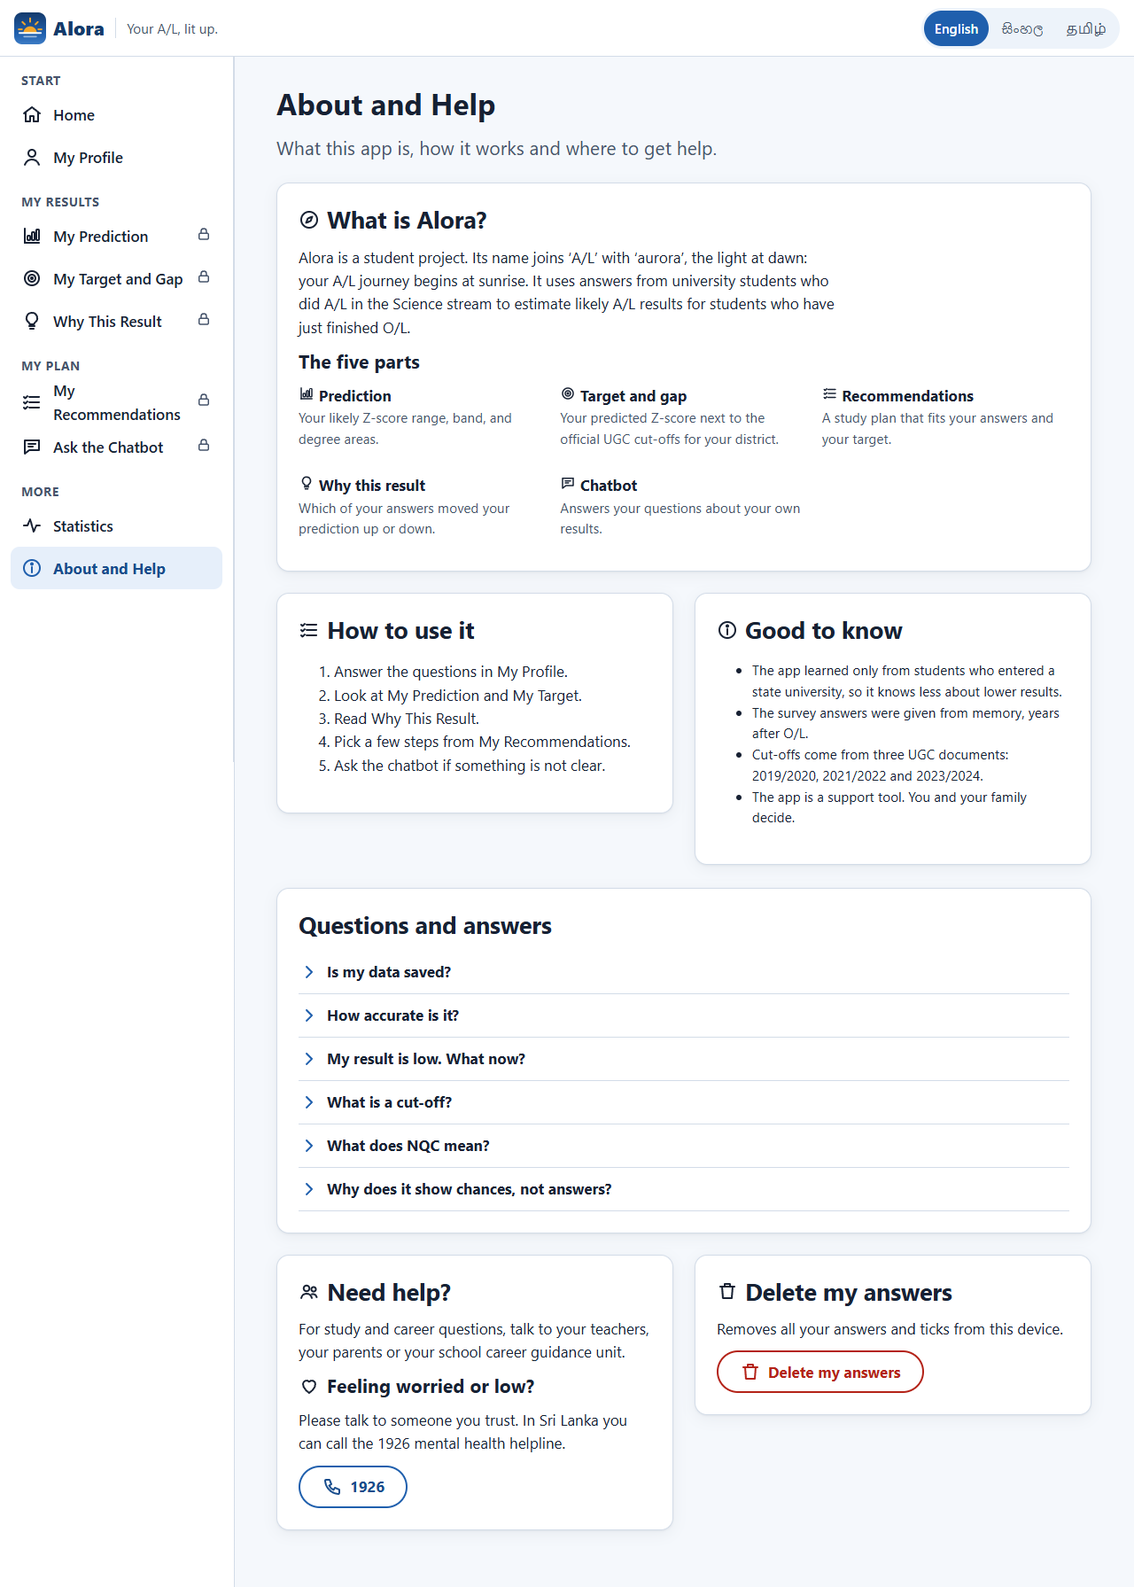
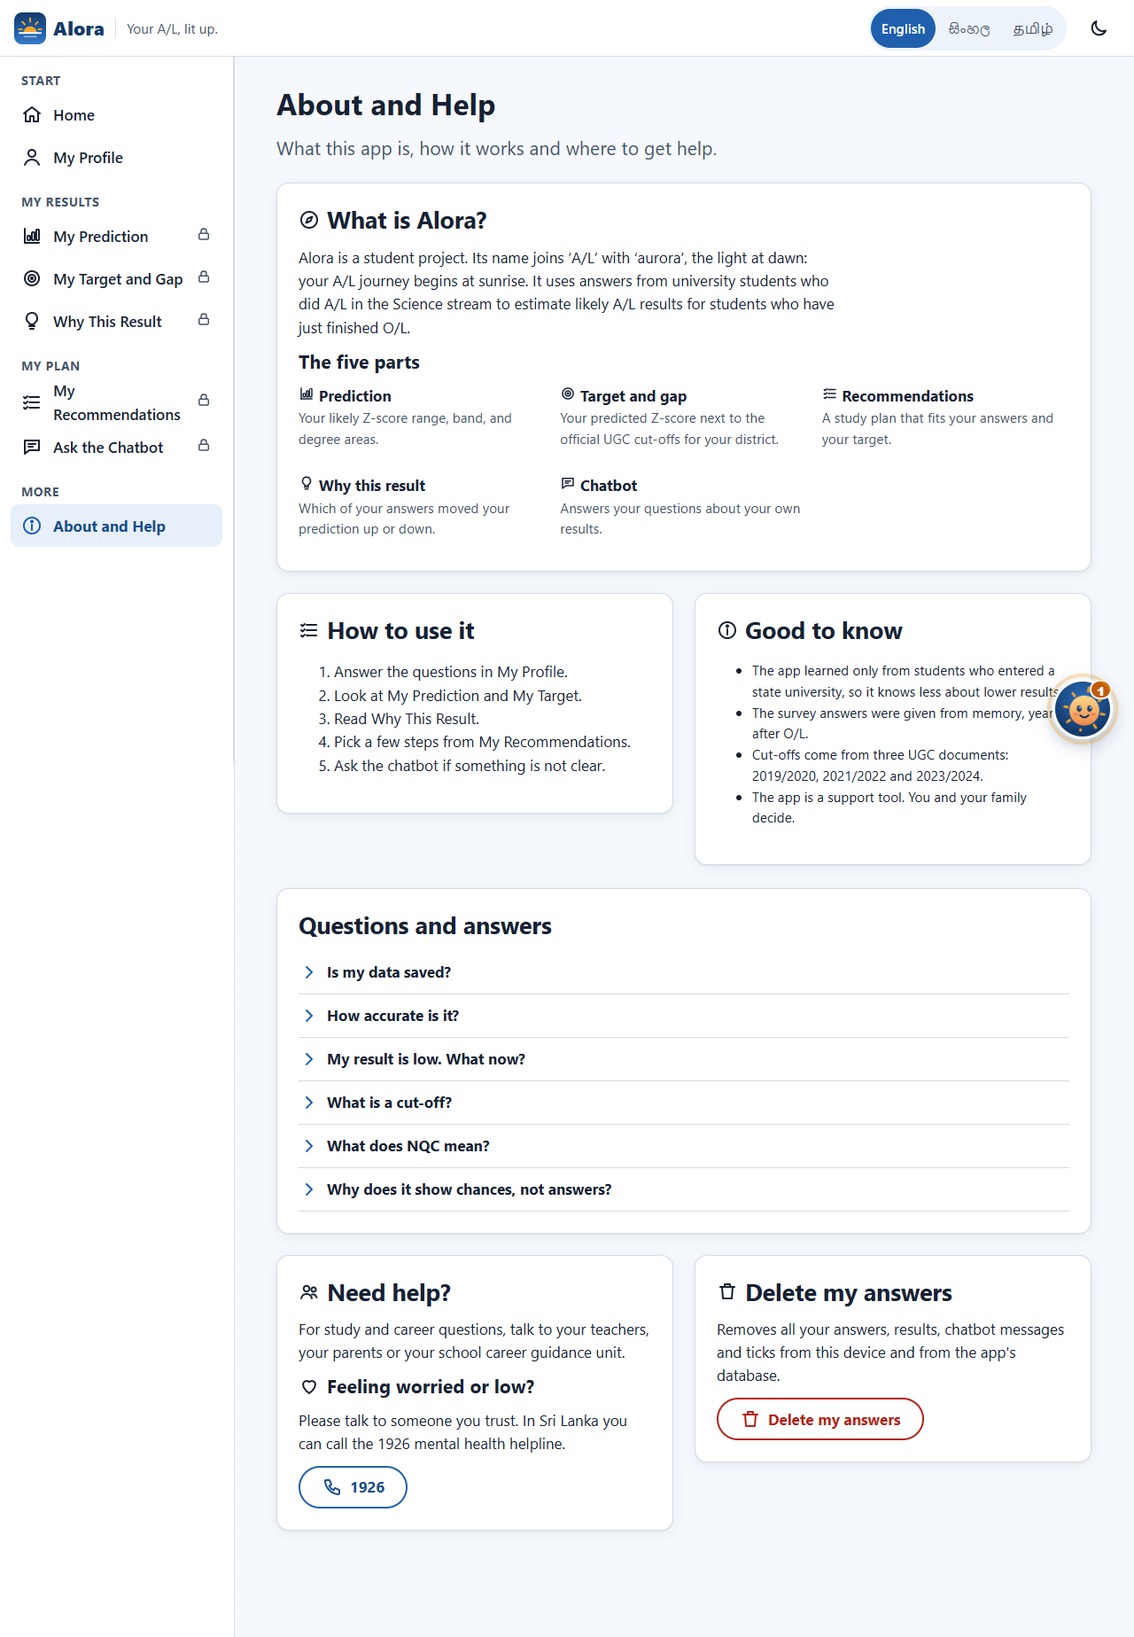
feat(frontend): remove the Statistics page
Removes the page, its menu entry, translations, icon and API call, and the
/api/stats endpoint. A test now checks that the page and endpoint are gone.
The About and example-student screenshots are retaken without the menu
link.

diff --git a/frontend/i18n/ta.js b/frontend/i18n/ta.js
@@ -12,7 +12,7 @@ export default {
     groups: { start: "தொடக்கம்", results: "என் முடிவுகள்", plan: "என் திட்டம்", more: "மேலும்" },
     home: "முகப்பு", profile: "என் விவரங்கள்", prediction: "என் கணிப்பு", target: "என் இலக்கும் இடைவெளியும்",
     why: "இந்த முடிவு ஏன்?", plan: "என் பரிந்துரைகள்", chat: "சாட்போட்டிடம் கேளுங்கள்",
-    stats: "புள்ளிவிவரங்கள்", about: "விவரமும் உதவியும்",
+    about: "விவரமும் உதவியும்",
     locked: "முதலில் கேள்விகளுக்குப் பதிலளிக்கவும்",
   },
   journey: { label: "உங்கள் முடிவுகள், படிப்படியாக", prediction: "கணிப்பு", target: "இலக்கு", why: "ஏன்", plan: "திட்டம்", chat: "சாட்" },
@@ -254,30 +254,6 @@ export default {
     placeholder: "உங்கள் கேள்வியைத் தட்டச்சு செய்யுங்கள் (ஆங்கிலத்தில்)…", send: "அனுப்பு", thinking: "யோசிக்கிறது…",
     unavailable: "சாட்போட் தற்போது கிடைக்கவில்லை. உங்கள் முடிவுகளும் திட்டமும் மற்ற பக்கங்களில் உள்ளன.",
     clear: "புதிய உரையாடலைத் தொடங்கு",
-  },
-  stats: {
-    title: "புள்ளிவிவரங்கள்", sub: "இந்த ஆப்பின் பின்னணியிலுள்ள ஆய்வும், மாதிரி எவ்வளவு நன்றாக வேலை செய்கிறது என்பதும்.",
-    tabData: "ஆய்வு", tabModel: "எவ்வளவு நன்றாக வேலை செய்கிறது", tabChecks: "சோதனைகளும் கருதுகோள்களும்",
-    kStudents: "ஆய்வில் உள்ள மாணவர்கள்", kTrain: "மாதிரியைப் பயிற்றுவிக்கப் பயன்பட்டோர்", kTest: "சோதிக்க ஒதுக்கப்பட்டோர்",
-    kWithin: "சோதனை மாணவர்களில்: கணிக்கப்பட்ட Z-புள்ளி 0.4க்குள்",
-    zHist: "ஆய்வு மாணவர்களின் Z-புள்ளிகள்", zHistSub: "ஒவ்வொரு Z-புள்ளி வரம்பிலும் மாணவர் எண்ணிக்கை. இடைநிலை: {m}.",
-    degree: "மாணவர்கள் நுழைந்த பட்டப்படிப்புத் துறைகள்", subjects: "உயர்தரப் பாடங்கள்", years: "உயர்தரப் பரீட்சை ஆண்டு", region: "பல்கலைக்கழகப் பிராந்தியம்",
-    reached: "உயர்தரத் தொடக்கத்தில் இலக்குப் பட்டப்படிப்பு வைத்திருந்த மாணவர்களில் {p}% அந்தத் துறையில் நுழைந்தனர்.",
-    scales: "வினாக்கொத்தின் நம்பகத்தன்மை", scalesSub: "Cronbach's alpha (0.70 அல்லது அதற்கு மேல் நல்லது).",
-    scaleName: { self_efficacy: "தன்னம்பிக்கை (4 கேள்விகள்)", effort_regulation: "முயற்சியும் படிப்புப் பழக்கங்களும் (4 கேள்விகள்)", interest: "விஞ்ஞானம், கணிதத்தில் ஆர்வம் (4 கேள்விகள்)" },
-    small: "10க்குக் குறைவு",
-    mz: "Z-புள்ளி: சராசரிப் பிழை", mzSub: "குறைவாக இருந்தால் சிறந்தது. மாதிரி ஒருபோதும் பார்க்காத {n} மாணவர்களில் சோதிக்கப்பட்டது.",
-    ourModel: "எங்கள் மாதிரி", simpleGuess: "எளிய ஊகம் (அனைவருக்கும் சராசரி)",
-    allModels: "நாங்கள் ஒப்பிட்ட 8 நரம்பியல் வலையமைப்புகள் (சராசரி Z-புள்ளிப் பிழை)",
-    allModelsSub: "தேர்ந்தெடுக்கப்பட்ட மாதிரி குறிக்கப்பட்டுள்ளது. பெரும்பாலான மாதிரிகளுக்கிடையே வேறுபாடு சிறியது.",
-    classTitle: "மாதிரி சரியான குழுவைத் தேர்ந்தெடுக்கும் அளவு", classSub: "Macro F1 புள்ளி 0 முதல் 1 வரை; அதிகமாக இருந்தால் சிறந்தது. எளிய ஊகம் = எப்போதும் மிகப் பொதுவான குழு.",
-    tasks: { zscore_band: "Z-புள்ளிப் பிரிவு", degree_category: "பட்டப்படிப்புத் துறை", university_group: "பல்கலைக்கழகப் பிராந்தியம்" },
-    hypTitle: "கருதுகோள்கள்", hypSub: "இந்தத் திட்டம் சோதிக்க நோக்கியவையும் இதுவரையான முடிவும்.",
-    partsTitle: "ஆப் பகுதிகளின் சோதனைகள்",
-    chatbotCheck: "சாட்போட் சோதனை: {n} கேள்விகள், கற்பனை எண்கள் {inv}, தொடர்பற்ற கேள்விகளை மறுத்தல் {ref}%, தெரியாதபோது “உறுதியில்லை” எனல் {uns}%, மிக மெதுவான பதில் {s} வினாடி.",
-    recCheck: "பரிந்துரைகள்: {p}% காரணமும் சான்றும் கொண்டவை; ஒத்த மாணவர்கள் தற்செயலானவர்களை விட உங்களுக்கு நெருக்கமானவர்கள்: {ok}.",
-    yes: "ஆம்", no: "இல்லை",
-    source: "மூலம்: ஆய்வாளர் வழங்கிய ஆய்வுப் பதில்கள்; UGC வெட்டுப்புள்ளி ஆவணங்கள் 2019/2020, 2021/2022, 2023/2024.",
   },
   about: {
     title: "விவரமும் உதவியும்", sub: "இந்த ஆப் என்ன, எப்படி வேலை செய்கிறது, எங்கே உதவி பெறலாம்.",

diff --git a/frontend/i18n/si.js b/frontend/i18n/si.js
@@ -12,7 +12,7 @@ export default {
     groups: { start: "ආරම්භය", results: "මගේ ප්රතිඵල", plan: "මගේ සැලැස්ම", more: "තවත්" },
     home: "මුල් පිටුව", profile: "මගේ තොරතුරු", prediction: "මගේ අනාවැකිය", target: "මගේ ඉලක්කය සහ පරතරය",
     why: "මෙම ප්රතිඵලය ඇයි?", plan: "මගේ නිර්දේශ", chat: "චැට්බොට්ගෙන් අහන්න",
-    stats: "සංඛ්යාලේඛන", about: "විස්තර සහ උදව්",
+    about: "විස්තර සහ උදව්",
     locked: "පළමුව ප්රශ්නවලට පිළිතුරු දෙන්න",
   },
   journey: { label: "ඔබේ ප්රතිඵල, පියවරෙන් පියවර", prediction: "අනාවැකිය", target: "ඉලක්කය", why: "ඇයි", plan: "සැලැස්ම", chat: "චැට්" },
@@ -254,30 +254,6 @@ export default {
     placeholder: "ඔබේ ප්රශ්නය ටයිප් කරන්න (ඉංග්රීසියෙන්)…", send: "යවන්න", thinking: "සිතමින්…",
     unavailable: "චැට්බොට් දැනට ලබා ගත නොහැක. ඔබේ ප්රතිඵල සහ සැලැස්ම අනෙක් පිටුවල ඇත.",
     clear: "නව කතාබහක් අරඹන්න",
-  },
-  stats: {
-    title: "සංඛ්යාලේඛන", sub: "මෙම ඇප් එක පිටුපස ඇති සමීක්ෂණය සහ මාදිලිය කෙතරම් හොඳින් ක්රියා කරනවාද යන්න.",
-    tabData: "සමීක්ෂණය", tabModel: "එය කෙතරම් හොඳද", tabChecks: "පරීක්ෂණ සහ උපකල්පන",
-    kStudents: "සමීක්ෂණයේ සිසුන්", kTrain: "මාදිලිය පුහුණු කිරීමට භාවිත කළ", kTest: "පරීක්ෂා කිරීමට වෙන් කළ",
-    kWithin: "පරීක්ෂණ සිසුන්ගේ: අනාවැකි Z-අගය 0.4 ඇතුළත",
-    zHist: "සමීක්ෂණයේ සිසුන්ගේ Z-අගයන්", zHistSub: "එක් එක් Z-අගය පරාසයේ සිසුන් ගණන. මධ්යස්ථය: {m}.",
-    degree: "සිසුන් ඇතුළු වූ උපාධි ක්ෂේත්ර", subjects: "උසස් පෙළ විෂයයන්", years: "උසස් පෙළ විභාග වර්ෂය", region: "විශ්වවිද්යාල කලාපය",
-    reached: "උසස් පෙළ ආරම්භයේදී ඉලක්ක උපාධියක් තිබූ සිසුන්ගෙන් {p}%ක් එම ක්ෂේත්රයට ඇතුළු වුණා.",
-    scales: "ප්රශ්නාවලියේ විශ්වසනීයත්වය", scalesSub: "ක්රොන්බැක් ඇල්ෆා (0.70 හෝ වැඩි නම් හොඳයි).",
-    scaleName: { self_efficacy: "ආත්ම විශ්වාසය (ප්රශ්න 4)", effort_regulation: "උත්සාහය සහ පාඩම් පුරුදු (ප්රශ්න 4)", interest: "විද්යාව සහ ගණිතය කෙරෙහි උනන්දුව (ප්රශ්න 4)" },
-    small: "10ට අඩු",
-    mz: "Z-අගය: සාමාන්ය දෝෂය", mzSub: "අඩු නම් වඩා හොඳයි. මාදිලිය කිසිදා නොදුටු සිසුන් {n} දෙනෙකු මත පරීක්ෂා කළා.",
-    ourModel: "අපගේ මාදිලිය", simpleGuess: "සරල අනුමානය (සෑම දෙනාටම සාමාන්යය)",
-    allModels: "අප සැසඳූ ස්නායු ජාල 8 (සාමාන්ය Z-අගය දෝෂය)",
-    allModelsSub: "තෝරාගත් මාදිලිය සලකුණු කර ඇත. බොහෝ මාදිලි අතර වෙනස්කම් කුඩායි.",
-    classTitle: "මාදිලිය නිවැරදි කණ්ඩායම තෝරන වාර", classSub: "0 සිට 1 දක්වා Macro F1 ලකුණ; වැඩි නම් වඩා හොඳයි. සරල අනුමානය = සැමවිටම වඩාත් පොදු කණ්ඩායම.",
-    tasks: { zscore_band: "Z-අගය කාණ්ඩය", degree_category: "උපාධි ක්ෂේත්රය", university_group: "විශ්වවිද්යාල කලාපය" },
-    hypTitle: "උපකල්පන", hypSub: "ව්යාපෘතිය පරීක්ෂා කිරීමට අදහස් කළ දේ සහ මෙතෙක් ප්රතිඵලය.",
-    partsTitle: "ඇප් කොටස්වල පරීක්ෂණ",
-    chatbotCheck: "චැට්බොට් පරීක්ෂණය: ප්රශ්න {n}, සාදාගත් අංක {inv}, අදාළ නොවන ප්රශ්න ප්රතික්ෂේප කිරීම {ref}%, නොදන්නා විට “විශ්වාස නැත” පැවසීම {uns}%, සෙමින්ම පිළිතුර තත්පර {s}.",
-    recCheck: "නිර්දේශ: {p}%කට හේතුවක් සහ සාක්ෂියක් ඇත; සමාන සිසුන් අහඹු සිසුන්ට වඩා ඔබට සමීපයි: {ok}.",
-    yes: "ඔව්", no: "නැත",
-    source: "මූලාශ්රය: පර්යේෂකයා විසින් සපයන ලද සමීක්ෂණ පිළිතුරු; UGC කඩඉම් ලේඛන 2019/2020, 2021/2022 සහ 2023/2024.",
   },
   about: {
     title: "විස්තර සහ උදව්", sub: "මෙම ඇප් එක කුමක්ද, එය ක්රියා කරන ආකාරය සහ උදව් ලබා ගත හැකි තැන්.",

diff --git a/frontend/i18n/en.js b/frontend/i18n/en.js
@@ -10,7 +10,7 @@ export default {
     groups: { start: "Start", results: "My results", plan: "My plan", more: "More" },
     home: "Home", profile: "My Profile", prediction: "My Prediction", target: "My Target and Gap",
     why: "Why This Result", plan: "My Recommendations", chat: "Ask the Chatbot",
-    stats: "Statistics", about: "About and Help",
+    about: "About and Help",
     locked: "Answer the questions first",
   },
   journey: { label: "Your results, step by step", prediction: "Prediction", target: "Target", why: "Why", plan: "Plan", chat: "Chat" },
@@ -249,31 +249,6 @@ export default {
     suggestions: ["Am I on track for my target?", "What should I do first?", "Why is my Z-score like this?", "What is a cut-off?"],
     unavailable: "The chatbot is not available right now. Your results and plan are still on the other pages.",
     clear: "Start a new chat",
-  },
-  stats: {
-    title: "Statistics", sub: "About the survey behind this app, and how well the model works.",
-    tabData: "The survey", tabModel: "How well it works", tabChecks: "Checks and hypotheses",
-    kStudents: "students in the survey", kTrain: "used to train the model", kTest: "kept aside to test it",
-    kWithin: "of test students: predicted Z-score within 0.4",
-    zHist: "Z-scores of the students in the survey", zHistSub: "Number of students in each Z-score range. Median: {m}.",
-    degree: "Degree areas the students entered", subjects: "A/L subjects", years: "Year of the A/L exam", region: "University region",
-    reached: "{p}% of students who had a target degree at the start of A/L entered that degree area.",
-    scales: "Questionnaire reliability", scalesSub: "Cronbach's alpha (0.70 or more is good).",
-    scaleName: { self_efficacy: "Confidence (4 questions)", effort_regulation: "Effort and study habits (4 questions)", interest: "Interest in Science and Maths (4 questions)" },
-    small: "fewer than 10",
-    mz: "Z-score: average error", mzSub: "Lower is better. Tested on {n} students the model had never seen.",
-    ourModel: "Our model", simpleGuess: "Simple guess (everyone gets the average)",
-    allModels: "All 8 neural networks we compared (average Z-score error)",
-    allModelsSub: "The chosen model is marked. Differences between most models are small.",
-    classTitle: "How often the model picks the right group", classSub: "Macro F1 score from 0 to 1; higher is better. Simple guess = always the most common group.",
-    tasks: { zscore_band: "Z-score band", degree_category: "Degree area", university_group: "University region" },
-    trustTitle: "How much to trust each chance",
-    hypTitle: "Hypotheses", hypSub: "What the project set out to test, and the result so far.",
-    partsTitle: "Checks of the app parts",
-    chatbotCheck: "Chatbot test: {n} questions, {inv} invented numbers, {ref}% refusals of off-topic questions, {uns}% \"not sure\" when it could not know, slowest reply {s} s.",
-    recCheck: "Recommendations: {p}% have a reason and evidence; similar students are closer to you than random ones: {ok}.",
-    yes: "yes", no: "no",
-    source: "Source: survey responses supplied by the researcher; UGC cut-off documents 2019/2020, 2021/2022 and 2023/2024.",
   },
   about: {
     title: "About and Help", sub: "What this app is, how it works and where to get help.",

diff --git a/frontend/js/main.js b/frontend/js/main.js
@@ -12,17 +12,16 @@ import * as home from "./pages/home.js";
 import * as prediction from "./pages/prediction.js";
 import * as profile from "./pages/profile.js";
 import * as plan from "./pages/plan.js";
-import * as stats from "./pages/stats.js";
 import * as target from "./pages/target.js";
 import * as why from "./pages/why.js";
 
-const PAGES = { home, profile, prediction, target, why, plan, chat, stats, about };
+const PAGES = { home, profile, prediction, target, why, plan, chat, about };
 // Navigation grouped into four short groups (Hick's law, Miller's law, Gestalt proximity).
 const NAV = [
   ["start", [["home", "home"], ["profile", "user"]]],
   ["results", [["prediction", "chart"], ["target", "target"], ["why", "bulb"]]],
   ["plan", [["plan", "list"], ["chat", "chat"]]],
-  ["more", [["stats", "stats"], ["about", "info"]]],
+  ["more", [["about", "info"]]],
 ];
 const NEEDS_PROFILE = new Set(["prediction", "target", "why", "plan", "chat"]);
 

diff --git a/frontend/js/api.js b/frontend/js/api.js
@@ -58,7 +58,6 @@ function cached(key, make) {
 export const api = {
   questions: () => cached("questions", () => request("/api/questions")),
   examples: () => cached("examples", () => request("/api/examples")),
-  stats: () => cached("stats", () => request("/api/stats")),
   predict: (profile) => cached("predict" + JSON.stringify(profile), () => request("/api/predict", { profile })),
   gap: (profile) => cached("gap" + JSON.stringify(profile), () => request("/api/gap", { profile })),
   recommend: (profile) => cached("rec" + JSON.stringify(profile), () => request("/api/recommend", { profile })),
@@ -73,5 +72,5 @@ export const api = {
       memorySession = null;
     }
   },
-  clear: () => { for (const key of [...cache.keys()]) if (!["questions", "examples", "stats"].includes(key)) cache.delete(key); },
+  clear: () => { for (const key of [...cache.keys()]) if (!["questions", "examples"].includes(key)) cache.delete(key); },
 };

diff --git a/frontend/js/icons.js b/frontend/js/icons.js
@@ -8,7 +8,6 @@ const P = {
   bulb: '<path d="M9 18h6"/><path d="M10 21h4"/><path d="M12 3a6 6 0 0 0-3.5 10.9c.6.5 1 1.2 1 2V16h5v-.1c0-.8.4-1.5 1-2A6 6 0 0 0 12 3z"/>',
   list: '<path d="M9 6h11M9 12h11M9 18h11"/><path d="m3 6 1.5 1.5L7 5M3 12l1.5 1.5L7 11M3 18l1.5 1.5L7 17"/>',
   chat: '<path d="M4 5h16v11H9l-5 4z"/><path d="M8 9h8M8 12h5"/>',
-  stats: '<path d="M3 12h4l3-7 4 14 3-7h4"/>',
   info: '<circle cx="12" cy="12" r="9"/><path d="M12 11v6"/><circle cx="12" cy="7.5" r="1" fill="currentColor"/>',
   menu: '<path d="M4 7h16M4 12h16M4 17h16"/>',
   close: '<path d="M6 6l12 12M18 6 6 18"/>',

diff --git a/backend/app.py b/backend/app.py
@@ -35,7 +35,6 @@ from fastapi.staticfiles import StaticFiles
 from backend.schemas import ChatRequest, ExplainRequest, GeneralChatRequest, Profile, ProfileRequest
 from backend.storage import AppStore, clean_session
 from src.chatbot.llm import OllamaModel
-from src.evaluation.stats_api import project_statistics
 from src.models import student
 from src.system import DecisionSupportSystem
 from src.utils.config import load_config, resolve_path
@@ -124,11 +123,6 @@ def create_app(
     def notice() -> dict[str, str]:
         """The support-tool notice the interface must always show next to the chatbot."""
         return {"notice": " ".join(load_config("app")["chatbot"]["notice"].split())}
-
-    @app.get("/api/stats")
-    def stats() -> dict[str, Any]:
-        """Project, dataset and evaluation statistics (aggregates only) for the Statistics page."""
-        return project_statistics()
 
     @app.get("/api/examples")
     def examples() -> dict[str, Any]:

diff --git a/tests/test_phase10.py b/tests/test_phase10.py
@@ -48,11 +48,13 @@ def test_interface_is_served(client: TestClient) -> None:
         assert client.get(path).status_code == 200, path
 
 
-def test_examples_and_stats_endpoints(client: TestClient) -> None:
+def test_examples_endpoint(client: TestClient) -> None:
     assert set(client.get("/api/examples").json()) == {"strong", "average", "weak"}
-    stats = client.get("/api/stats").json()
-    assert {"dataset", "questionnaire", "model", "hypotheses", "parts"} <= set(stats)
-    assert [h["id"] for h in stats["hypotheses"]] == [f"H{i}" for i in range(1, 13)]
+
+
+def test_statistics_page_is_removed(client: TestClient) -> None:
+    assert client.get("/api/stats").status_code == 404
+    assert client.get("/js/pages/stats.js").status_code == 404
 
 
 def test_chatbot_answers_before_a_profile_exists(client: TestClient) -> None:
